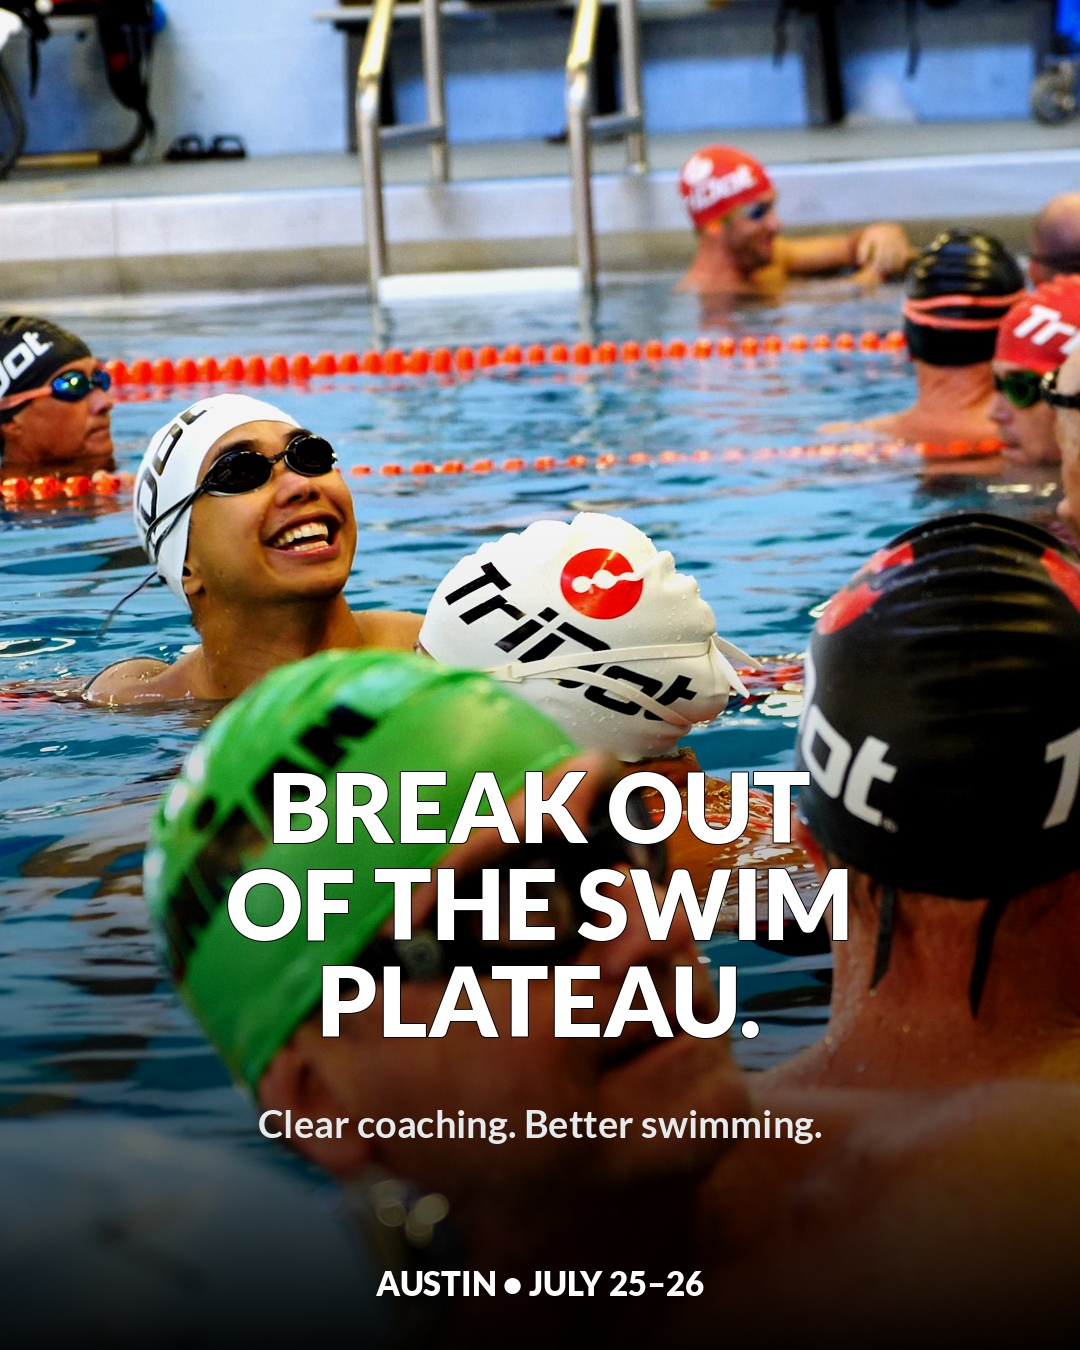
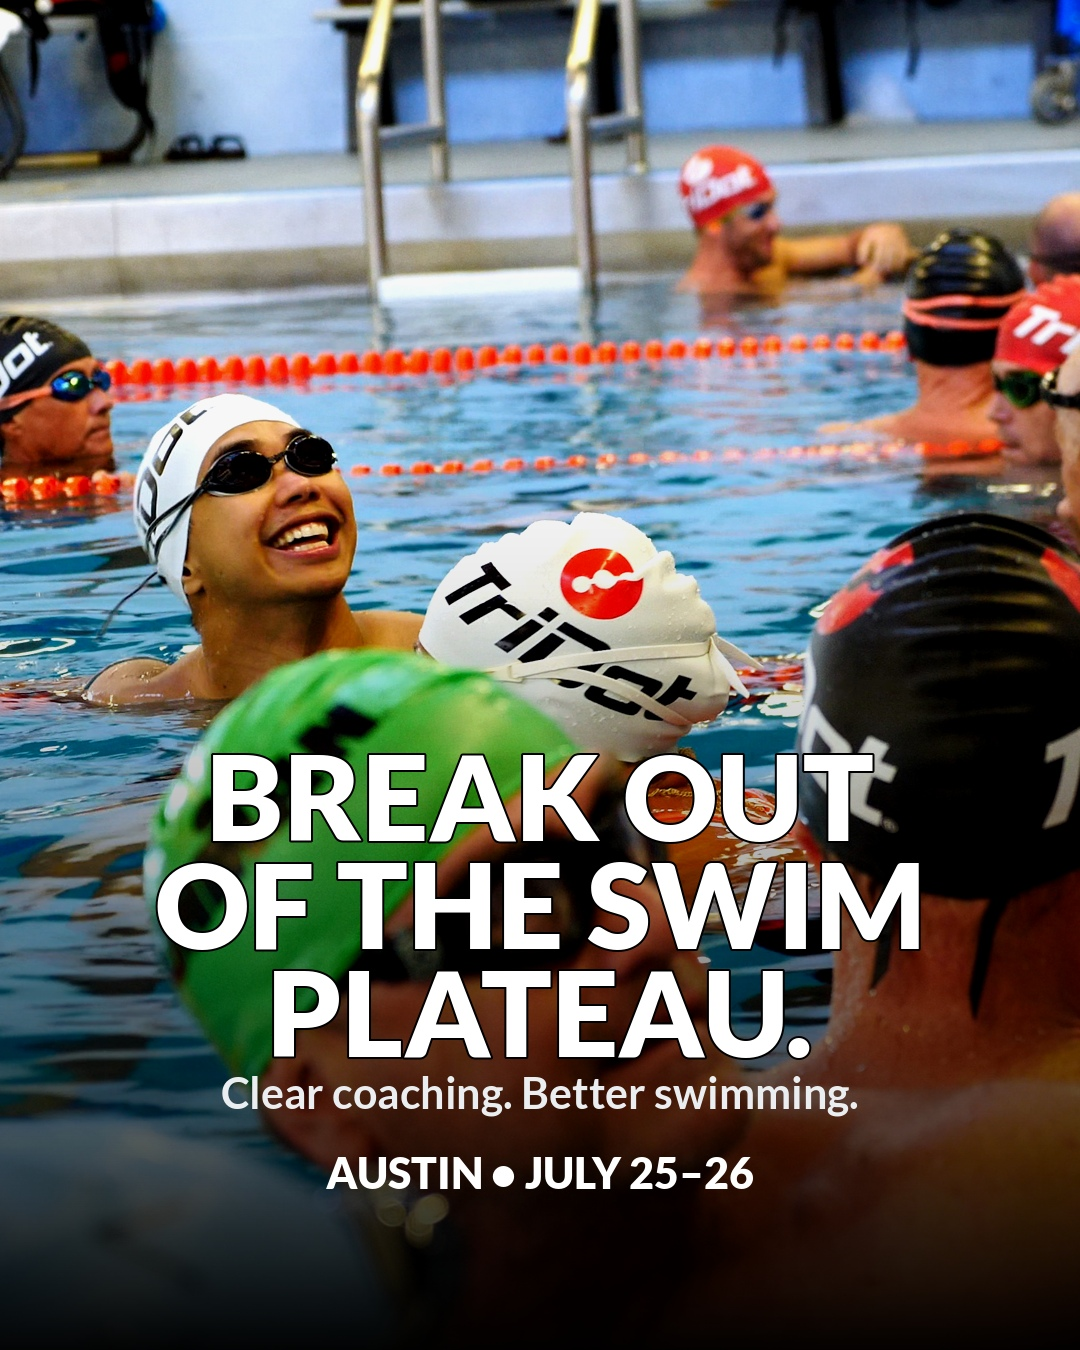
Tighten and enlarge Austin Pool School graphic typography

Changed region(s): [[0.1222, 0.56, 0.8556, 0.9022], [0.3361, 0.9333, 0.6722, 0.9644]]

diff --git a/austin-pool-school-review/index.html b/austin-pool-school-review/index.html
@@ -15,5 +15,5 @@ const posts=[
 ['08-detail-matters.jpg','VALUE','The details make the difference','Small technique changes can lead to meaningful progress. Get focused coaching and drills designed to help you apply it back in your own training.'],
 ['09-personal-feedback.jpg','VALUE','Real-time feedback','See it. Understand it. Practice it. Bring your swim questions to Austin and leave with practical tools for your next session.'],
 ['10-austin-register-now.jpg','EVENT PROMO','Austin Pool School: Register now','July 25–26, 2026 · Austin Aquatics and Sports Academy · $599\n\nYour next opportunity to break out of the dreaded swim plateau starts here. Register now.']
-];let i=0;const $=id=>document.getElementById(id);function render(){let p=posts[i];$('title').textContent=`Post ${i+1} of ${posts.length}`;$('graphic').src='./assets/'+p[0]+'?v=gradient-20260710';$('headline').textContent=p[2];$('caption').textContent=p[3];$('type').textContent=p[1];$('prev').disabled=i===0;$('next').disabled=i===posts.length-1;$('thumbs').innerHTML=posts.map((x,n)=>`<button class="thumb ${n===i?'active':''}" aria-label="View post ${n+1}" onclick="go(${n})"><img src="./assets/${x[0]}?v=gradient-20260710"></button>`).join('')};function go(n){i=n;render()}$('prev').onclick=()=>go(i-1);$('next').onclick=()=>go(i+1);document.addEventListener('keydown',e=>{if(e.key==='ArrowLeft'&&i)go(i-1);if(e.key==='ArrowRight'&&i<9)go(i+1)});render();
+];let i=0;const $=id=>document.getElementById(id);function render(){let p=posts[i];$('title').textContent=`Post ${i+1} of ${posts.length}`;$('graphic').src='./assets/'+p[0]+'?v=tight-type-20260710';$('headline').textContent=p[2];$('caption').textContent=p[3];$('type').textContent=p[1];$('prev').disabled=i===0;$('next').disabled=i===posts.length-1;$('thumbs').innerHTML=posts.map((x,n)=>`<button class="thumb ${n===i?'active':''}" aria-label="View post ${n+1}" onclick="go(${n})"><img src="./assets/${x[0]}?v=tight-type-20260710"></button>`).join('')};function go(n){i=n;render()}$('prev').onclick=()=>go(i-1);$('next').onclick=()=>go(i+1);document.addEventListener('keydown',e=>{if(e.key==='ArrowLeft'&&i)go(i-1);if(e.key==='ArrowRight'&&i<9)go(i+1)});render();
 </script></body></html>
